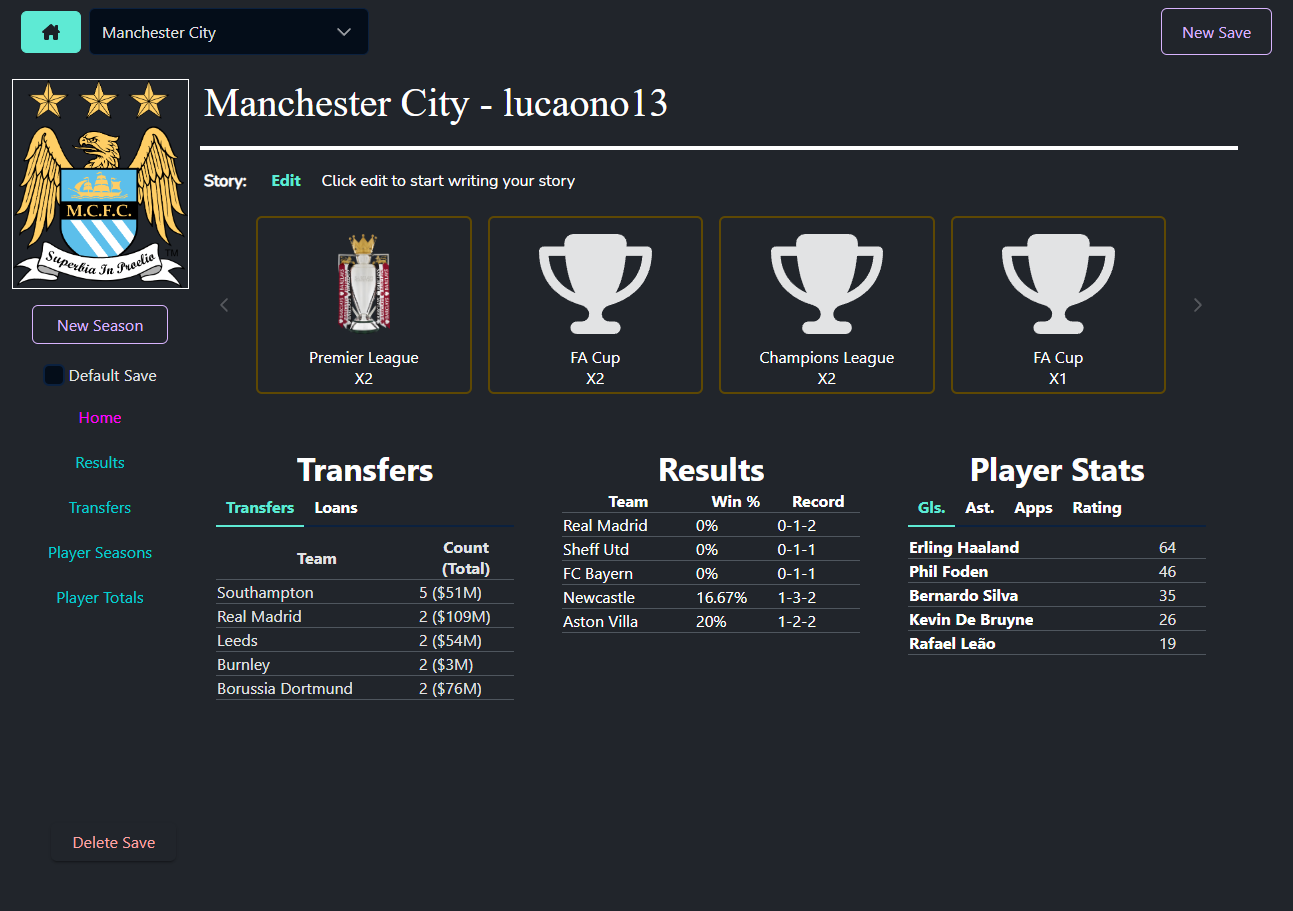
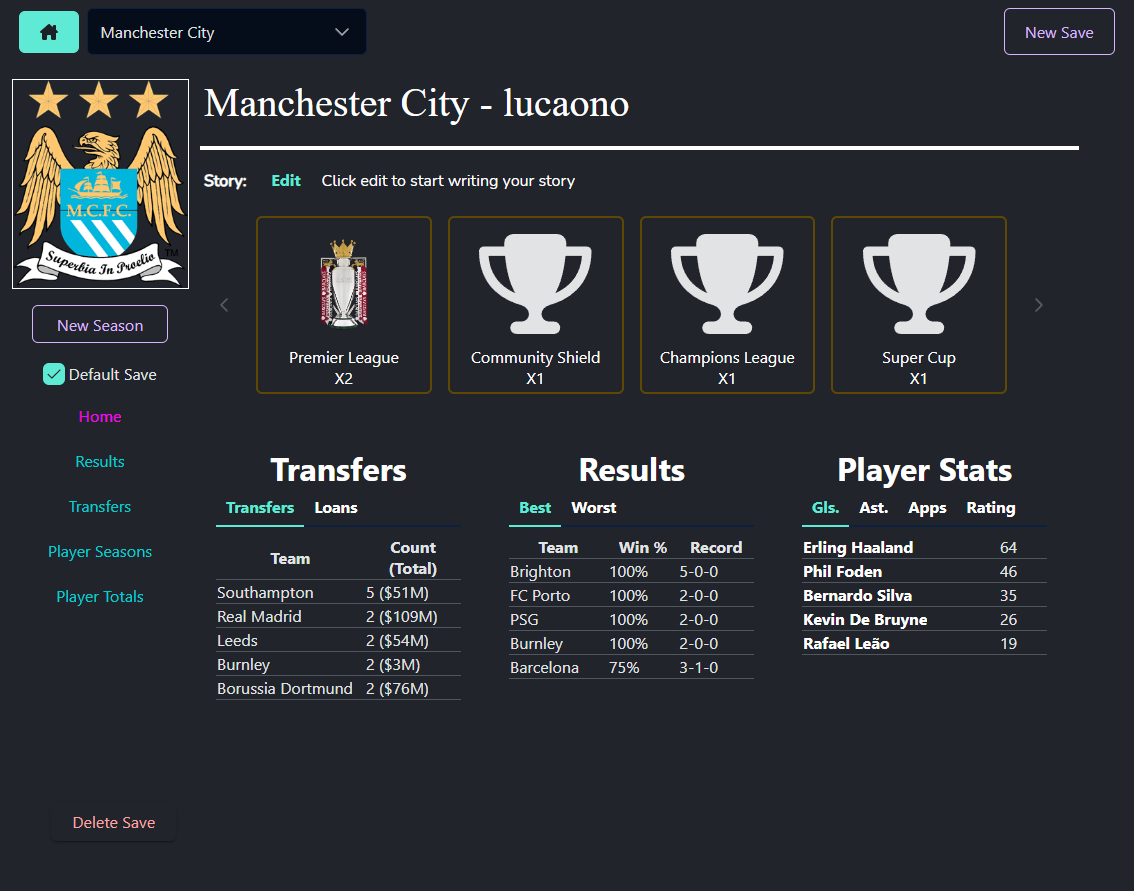
Added new tab for results to get best record against.

diff --git a/frontend/src/components/Pages/SaveHome.vue b/frontend/src/components/Pages/SaveHome.vue
@@ -82,20 +82,41 @@
                 <Card class="statsCard">
                     <template #header><h1 class="flex align-content-center justify-content-center my-0">Results</h1></template>
                     <template #content>
-                        <table class="statTable">
-                            <thead>
-                                <tr>
-                                    <th>Team</th>
-                                    <th>Win %</th>
-                                    <th>Record</th>
-                                </tr>
-                            </thead>
-                            <tr v-for="team in sortedResults">
-                                <td>{{ team[0] }}</td>
-                                <td>{{ numberFormmaterDec.format(team[1].WinPerc) }}%</td>
-                                <td >{{ team[1].Record.W }}-{{ team[1].Record.D }}-{{ team[1].Record.L }}</td>
-                            </tr>
-                        </table>
+                        <TabView class="playerStatView">
+                            <TabPanel header="Best">
+                                <table class="statTable">
+                                    <thead>
+                                        <tr>
+                                            <th>Team</th>
+                                            <th>Win %</th>
+                                            <th>Record</th>
+                                        </tr>
+                                    </thead>
+                                    <tr v-for="team in sortedResults_best">
+                                        <td>{{ team[0] }}</td>
+                                        <td>{{ numberFormmaterDec.format(team[1].WinPerc) }}%</td>
+                                        <td >{{ team[1].Record.W }}-{{ team[1].Record.D }}-{{ team[1].Record.L }}</td>
+                                    </tr>
+                                </table>
+                            </TabPanel>
+                            <TabPanel header="Worst">
+                                <table class="statTable">
+                                    <thead>
+                                        <tr>
+                                            <th>Team</th>
+                                            <th>Win %</th>
+                                            <th>Record</th>
+                                        </tr>
+                                    </thead>
+                                    <tr v-for="team in sortedResults_worst">
+                                        <td>{{ team[0] }}</td>
+                                        <td>{{ numberFormmaterDec.format(team[1].WinPerc) }}%</td>
+                                        <td >{{ team[1].Record.W }}-{{ team[1].Record.D }}-{{ team[1].Record.L }}</td>
+                                    </tr>
+                                </table>
+                            </TabPanel>
+                        </TabView>
+                        
                     </template>
                 </Card>
             </div>
@@ -162,7 +183,8 @@ const editDialog = ref(false)
 const playerDialog = ref(false)
 const playerDialogID = ref(0)
 const route = useRoute()
-const sortedResults = ref()
+const sortedResults_worst = ref()
+const sortedResults_best = ref()
 const topGls = ref()
 const topAsts = ref()
 const topApps = ref()
@@ -300,16 +322,74 @@ onMounted( async () => {
             }
             
         })
-        sortedResults.value = [...resultsMap].sort(([k, v], [k2, v2]) => {
+        sortedResults_worst.value = [...resultsMap].sort(([k, v], [k2, v2]) => {
             if (v.WinPerc > v2.WinPerc) {
                 return 1
             }
             if (v.WinPerc < v2.WinPerc) {
                 return -1
             }
+            if (v.WinPerc == v2.WinPerc) {
+                if (v.Record.L > v2.Record.L) {
+                    return 1
+                }
+                if (v.Record.L < v2.Record.L) {
+                    return -1
+                }
+                if (v.Record.L == v2.Record.L) {
+                    if (v.Record.D > v2.Record.D) {
+                        return 1
+                    }
+                    if (v.Record.D < v2.Record.D) {
+                        return -1
+                    } 
+                    if (v.Record.D == v2.Record.D) {
+                        if (v.Record.W < v2.Record.W) {
+                            return -1
+                        }
+                        if (v.Record.W > v2.Record.W) {
+                            return 1
+                        }
+                    }
+                }
+            }
             return 0
         })
-        sortedResults.value = sortedResults.value.slice(0,5)
+        sortedResults_best.value = [...resultsMap].sort(([k, v], [k2, v2]) => {
+            if (v.WinPerc < v2.WinPerc) {
+                return 1
+            }
+            if (v.WinPerc > v2.WinPerc) {
+                return -1
+            }
+            if (v.WinPerc == v2.WinPerc) {
+                if (v.Record.W < v2.Record.W) {
+                    return 1
+                }
+                if (v.Record.W > v2.Record.W) {
+                    return -1
+                }
+                if (v.Record.W == v2.Record.W) {
+                    if (v.Record.D < v2.Record.D) {
+                        return 1
+                    }
+                    if (v.Record.D > v2.Record.D) {
+                        return -1
+                    } 
+                    if (v.Record.D == v2.Record.D) {
+                        if (v.Record.L > v2.Record.L) {
+                            return -1
+                        }
+                        if (v.Record.L < v2.Record.L) {
+                            return 1
+                        }
+                    }
+                }
+            }
+            return 0
+        })
+        sortedResults_worst.value = sortedResults_worst.value.slice(0,5)
+        sortedResults_best.value = sortedResults_best.value.slice(0,5)
         if (response.Trophies == null) {
             return
         }
